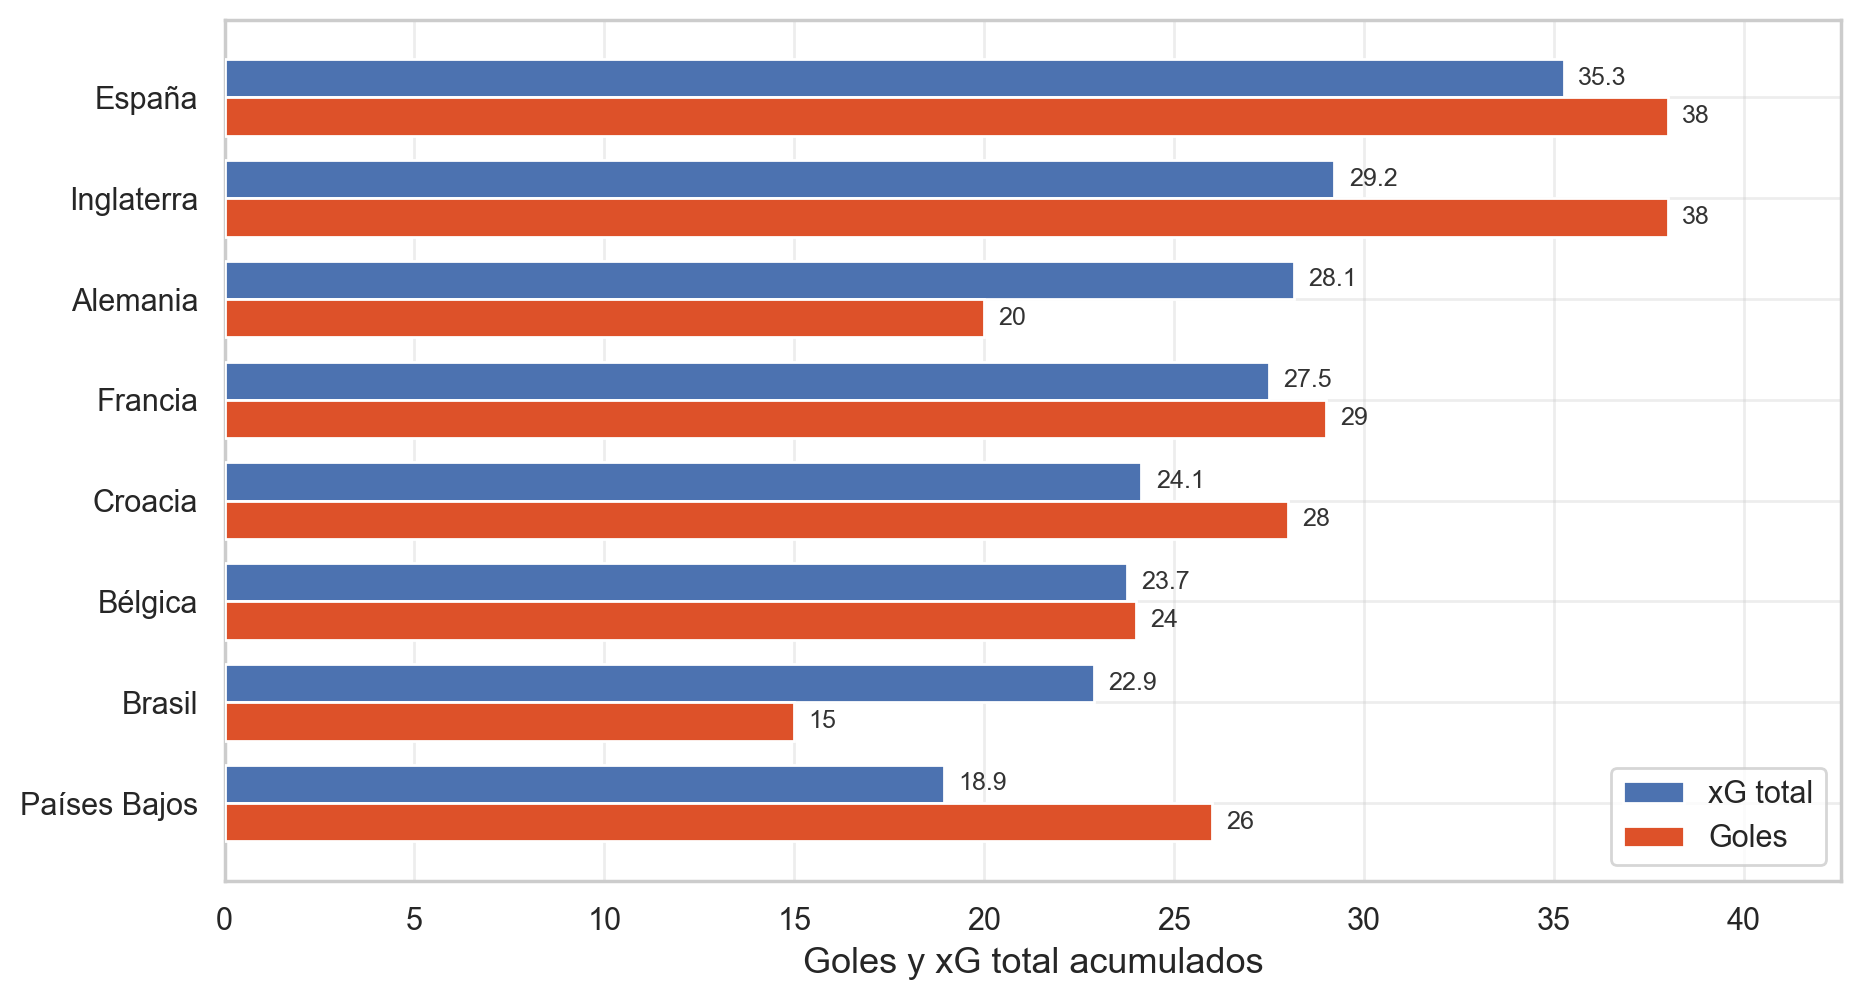
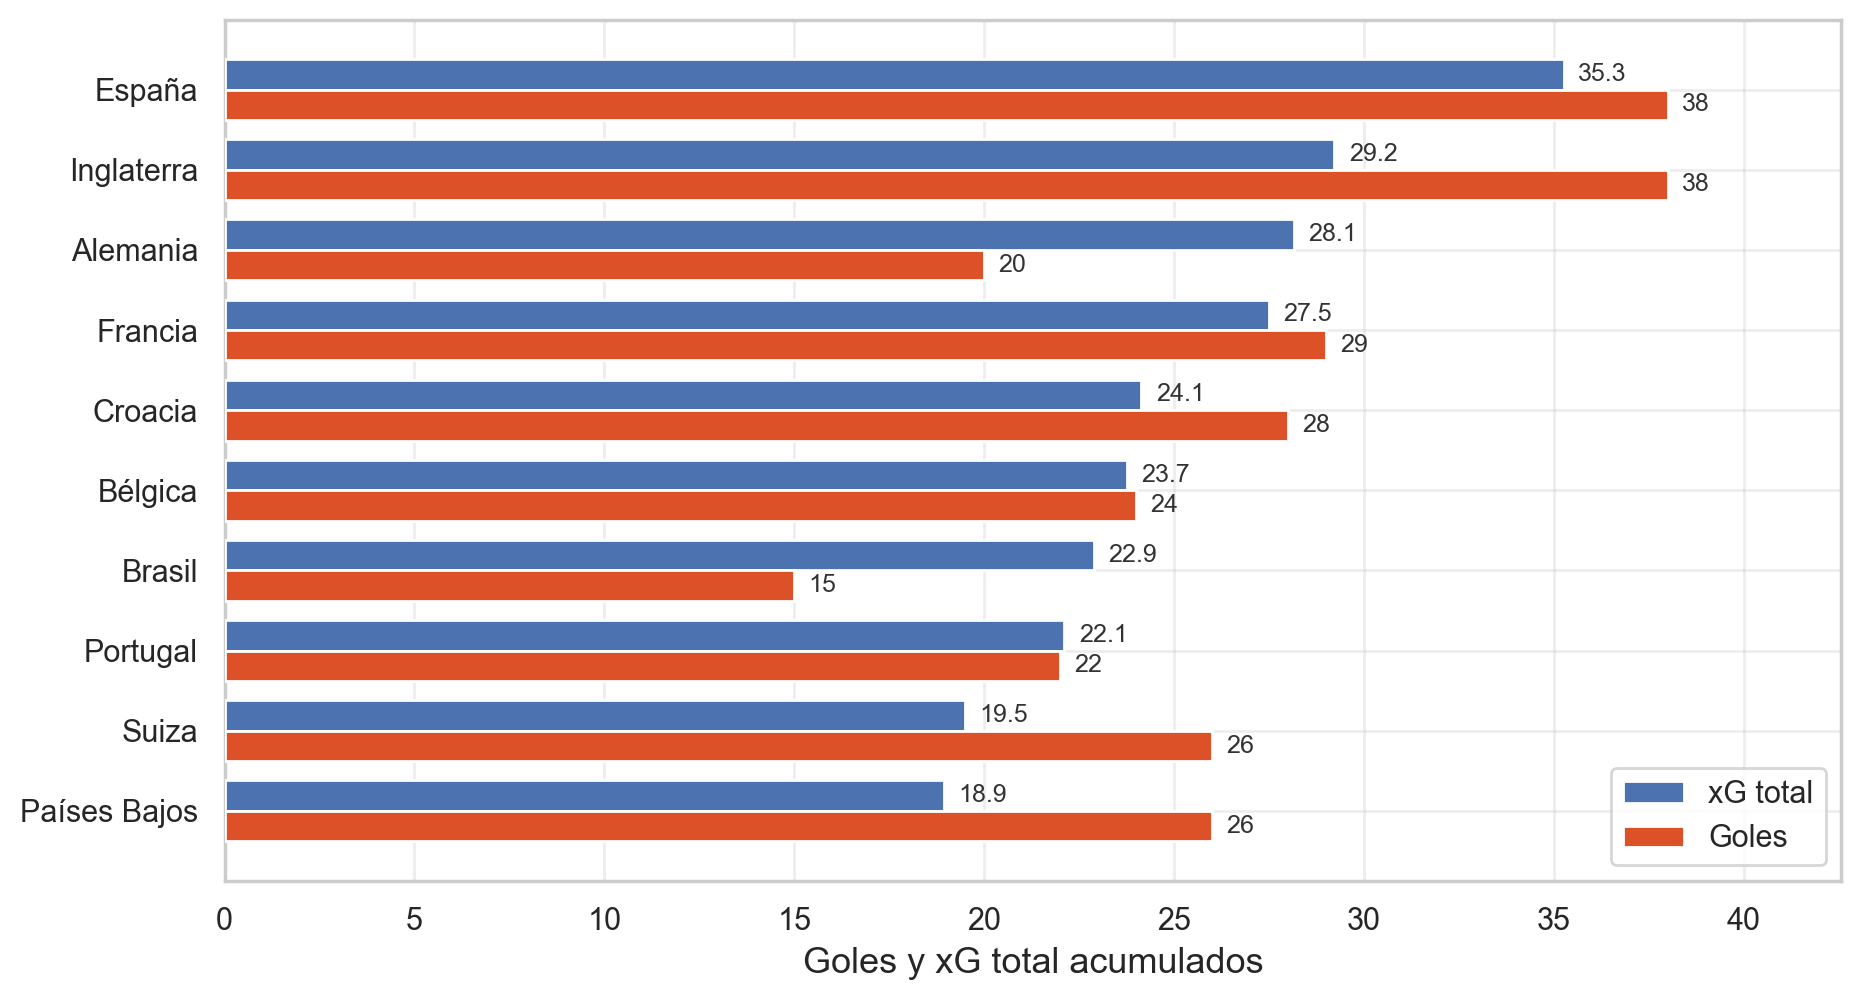
Persiste el ECE, la media predicha y la tasa base del LOCO agregado
La memoria citaba un ECE de 0,0087 y una media predicha de 0,0911 atribuyendolos
a loco_pooled_metrics.csv, que solo guardaba las cuatro metricas con intervalo
bootstrap. El script las calculaba pero no las escribia, de modo que dos cifras
del documento no eran trazables a su fuente. Ahora se persisten.

Regenerado: ece 0,0087, mean_pred 0,0911, base_rate 0,0904, identicas a las
citadas. Las diferencias en el random forest son de ultimo bit (~1e-17) por el
orden de sumacion en las predicciones paralelas, ya declaradas en el anexo A.

diff --git a/scripts/run_critical_fixes.py b/scripts/run_critical_fixes.py
@@ -206,6 +206,14 @@ def loco_pooled(X, y, comp, model_key):
             rows.append({"metrica": k, "valor": round(m[nombre], 4),
                          "ci_low": round(float(ci.loc[k, "ci_low"]), 4),
                          "ci_high": round(float(ci.loc[k, "ci_high"]), 4)})
+    # El ECE y la media predicha no llevan IC bootstrap, pero deben quedar en el CSV
+    # para que las cifras citadas en la memoria sean trazables a su fuente.
+    rows.append({"metrica": "ece", "valor": round(m["ece"], 4),
+                 "ci_low": "", "ci_high": ""})
+    rows.append({"metrica": "mean_pred", "valor": round(m["mean_pred"], 4),
+                 "ci_low": "", "ci_high": ""})
+    rows.append({"metrica": "base_rate", "valor": round(float(yy.mean()), 4),
+                 "ci_low": "", "ci_high": ""})
     df = pd.DataFrame(rows)
     df.attrs["n"] = len(yy)
     logger.info("  agregado: n=%d goles=%d | Brier=%.4f ECE=%.4f ROC=%.4f",

diff --git a/scripts/make_team_goals_vs_xg.py b/scripts/make_team_goals_vs_xg.py
@@ -44,10 +44,11 @@ plt.rcParams.update({
 TEAMS_ES = {
     "Spain": "España", "England": "Inglaterra", "Germany": "Alemania",
     "France": "Francia", "Croatia": "Croacia", "Belgium": "Bélgica",
-    "Brazil": "Brasil", "Netherlands": "Países Bajos",
+    "Brazil": "Brasil", "Portugal": "Portugal", "Switzerland": "Suiza",
+    "Netherlands": "Países Bajos",
 }
 ORDER = ["Spain", "England", "Germany", "France", "Croatia", "Belgium",
-         "Brazil", "Netherlands"]
+         "Brazil", "Portugal", "Switzerland", "Netherlands"]
 
 ROOT = Path(__file__).resolve().parents[1]
 CSV = ROOT / "data" / "results" / "team_xg_ranking.csv"
